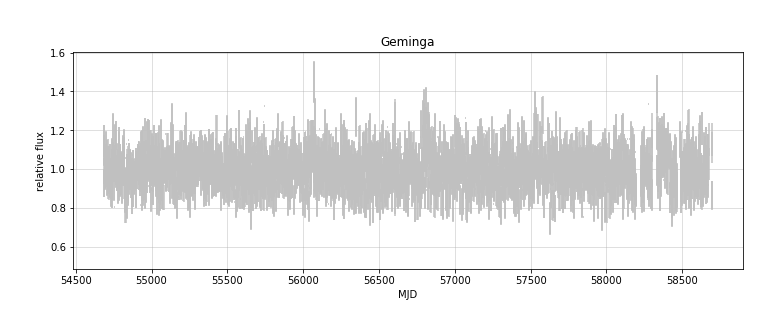
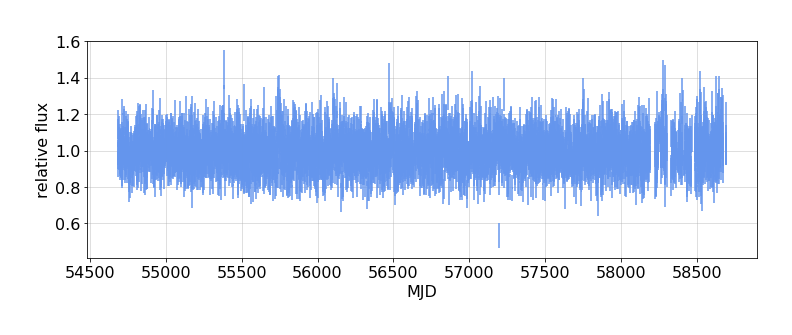
fix errors in flux_plot

diff --git a/light_curves/lightcurve.py b/light_curves/lightcurve.py
@@ -103,33 +103,42 @@ def get_lightcurve(config, files, source):
 
 
 # Cell
-def flux_plot(config, lightcurve, ts_max=9,  title=None, ax=None, fignum=1, **kwargs):
+def flux_plot(config, lightcurve, ts_min=9,  title=None, ax=None, fignum=1,
+              figsize=(12,4),
+              colors=('cornflowerblue','sandybrown'), fmt=' ',
+              **kwargs):
     """Make a plot of flux vs. MJD
 
     - lightcurve
-    - ts_max -- threshold for ploting limit
+    - ts_min -- threshold for ploting limit
+    - colors -- tuple of colors for signal, limit
     - kwargs -- apply to the Axis object
+
+    returns the Figure instance
     """
-    kw=dict(yscale='linear',xlabel='MJD', ylabel='relative flux',)
+    kw=dict(yscale='linear',xlabel='MJD', ylabel='relative flux')
     kw.update(**kwargs)
     df=lightcurve
     rep = config.likelihood_rep
     if rep =='poisson':
         ts = df.fit.apply(lambda f: f.ts)
-        limit = ts<ts_max
+        limit = ts<ts_min
         bar = df.loc[~limit,:]
         lim = df.loc[limit,:]
     else:
         bar=df; lim=[]
 
-    fig, ax = plt.subplots(figsize=(12,4), num=fignum) if ax is None else (ax.figure, ax)\
+    fig, ax = plt.subplots(figsize=figsize, num=fignum) if ax is None else (ax.figure, ax)\
         if ax is not None else (ax.figure,ax)
 
     # the points with error bars
     t = bar.index
     tw = bar.tw if 'tw' in bar.columns else np.full(len(t), config.time_interval)
     flux =  bar.fit.apply(lambda f: f.flux).values
-    error = bar.fit.apply(lambda f: np.array(f.errors)-f.flux).values
+    upper = bar.fit.apply(lambda f: f.errors[1]).values
+    lower = bar.fit.apply(lambda f: f.errors[0]).values
+    flux[:5], upper[:5], lower[:5]
+    error = np.array([upper-flux, flux-lower])
 
 #     if rep=='poisson':
 #         dy = [bar.errors.apply(lambda x: x[i]).clip(0,4) for i in range(2)]
@@ -137,9 +146,10 @@ def flux_plot(config, lightcurve, ts_max=9,  title=None, ax=None, fignum=1, **kw
 #         dy = bar.sig_flux.clip(0,4)
 #     else: assert False, f'Unrecognized likelihood rep: {rep}'
 
-    ax.errorbar(x=t, xerr=tw/2, y=flux, yerr=error, fmt=' ', color='silver')
+    ax.errorbar(x=t, xerr=tw/2, y=flux, yerr=error, fmt=fmt, color=colors[0])#'silver')
 
     # now do the limits (only for poisson rep)
+    error_size=2
     if len(lim)>0:
         t = lim.index
         tw = lim.tw
@@ -147,9 +157,9 @@ def flux_plot(config, lightcurve, ts_max=9,  title=None, ax=None, fignum=1, **kw
         y = lim.fit.apply(lambda f: f.limit).values
         yerr=0.2*(1 if kw['yscale']=='linear' else y)
         ax.errorbar(x=t, y=y, xerr=tw/2,
-                yerr=yerr,  color='lightsalmon',
-                uplims=True, ls='', lw=2, capsize=4, capthick=0,
-                alpha=0.5)
+                yerr=yerr,  color=colors[1],
+                uplims=True, ls='', lw=error_size, capsize=3*error_size, capthick=0,
+               )
 
     #ax.axhline(1., color='grey')
     ax.set(**kw)

diff --git a/utilities/ipynb_docgen.py b/utilities/ipynb_docgen.py
@@ -438,7 +438,7 @@ def nbdoc(userfun:'a function'):
     # this object will replace references to objects that it recognizes, like "Figure"
     # It needs to know where to put image files
     ### TODO: figure out where the doc folder is. Now assume using nbs folder
-    orep = ObjectReplacer(folders=['','../docs'], figure_prefix=name)
+    orep = ObjectReplacer(folders=['..','../docs'], figure_prefix=name)
     
     # get the function's docstring, assumed to be MD
     doc = inspect.cleandoc(userfun.__doc__)
